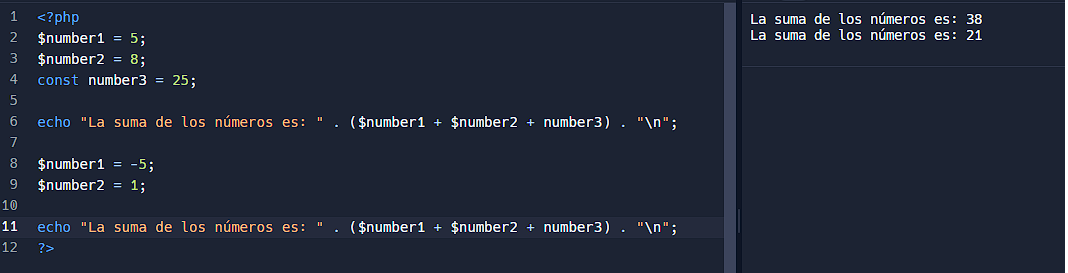
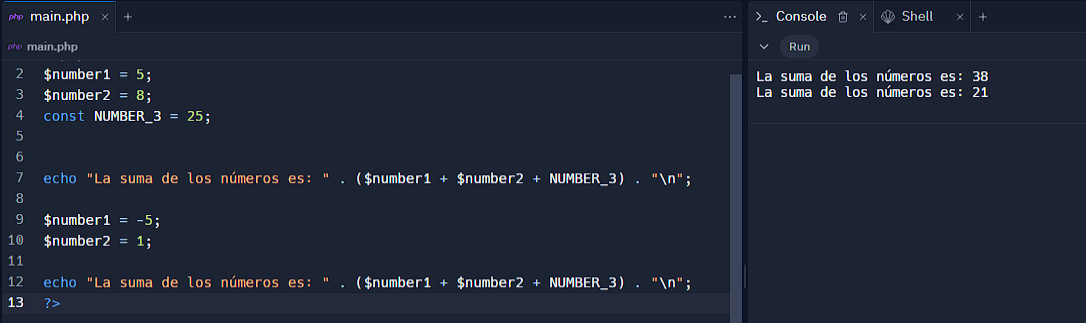
punto-3

Changed region(s): [[0.0, 0.0, 1.0, 1.0], [0.0, 0.1172, 0.2163, 0.381]]

diff --git a/punto-2/index.php b/punto-2/index.php
@@ -1,12 +1,13 @@
 <?php
 $number1 = 5;
 $number2 = 8;
-const number3 = 25;
+const NUMBER_3 = 25;
 
-echo "La suma de los números es: " . ($number1 + $number2 + number3) . "\n";
+
+echo "La suma de los números es: " . ($number1 + $number2 + NUMBER_3) . "\n";
 
 $number1 = -5;
 $number2 = 1;
 
-echo "La suma de los números es: " . ($number1 + $number2 + number3) . "\n";
+echo "La suma de los números es: " . ($number1 + $number2 + NUMBER_3) . "\n";
 ?>

diff --git a/punto-3/index.php b/punto-3/index.php
@@ -1,0 +1,14 @@
+<?php
+$number1 = 0;
+$number2 = 0;
+
+echo "Ingresa el primer número a sumar: ";
+$number1 = readline();
+
+echo "Ingresa el segundo número a sumar: ";
+$number2 = readline();
+
+$result = $number1 + $number2;
+
+echo "La suma de " . $number1 . " + " . $number2 . " = " . $result;
+?>

diff --git a/README.md b/README.md
@@ -14,6 +14,8 @@
 
 <h2>Punto 3: Suma de dos números indicados por el usuario</h2>
 
+<img src="./public/images/punto-3.png" alt="punto-3">
+
 <h2>Punto 4: Datos del usuario en consola</h2>
 
 <h2>Punto 5: Entrada de bolera usando if / else</h2>
